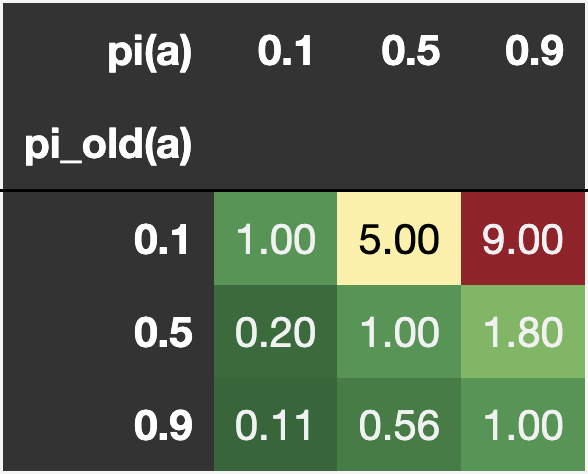
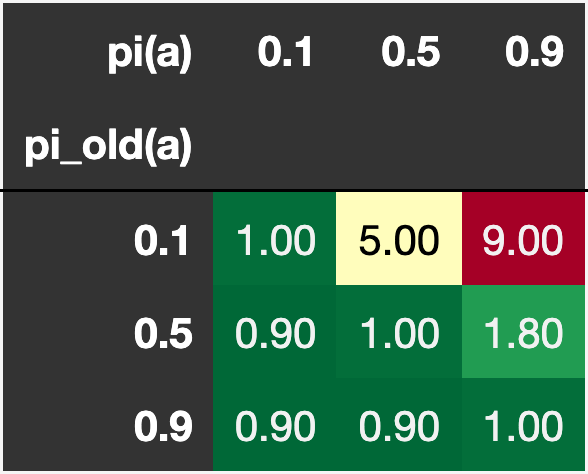
reproduce images with clipping

diff --git a/ppo.py b/ppo.py
@@ -15,8 +15,8 @@ def ppo_loss(pi_as, pi_as_old, A, epsilon=0.1):
     ratio = pi_as / pi_as_old
     term1 = ratio * A
     ratio_clipped = np.clip(ratio, 1 - epsilon, 1 + epsilon)
-    # term2 = ratio_clipped * A
-    term2 = term1
+    term2 = ratio_clipped * A
+    # term2 = term1
     loss = -np.min([term1, term2])
     return loss
 
@@ -43,14 +43,14 @@ def get_l_df(A):
 A = 1
 print(f"Loss with A={A}")
 df = apply_style(get_l_df(A))
-display(df)
-# dfi.export(df, f"fig/ppo_loss_A_{A}.png", dpi=300)
-
+# display(df)
+dfi.export(df, f"fig/ppo_loss_A_{A}.png", dpi=300)
+#%%
 A = -1
 print(f"Loss with A={A}")
 df = apply_style(get_l_df(A))
-display(df)
-# dfi.export(df, f"fig/ppo_loss_A_{A}.png", dpi=300)
+# display(df)
+dfi.export(df, f"fig/ppo_loss_A_{A}.png", dpi=300)
 # %% Deltas
 
 
@@ -77,12 +77,12 @@ delta = 0.01
 A = 10
 print(f"Loss Change with A={A}, delta={delta}")
 df = apply_style(get_loss_change_df(A, delta), 2)
-display(df)
-# dfi.export(df, f"fig/ppo_loss_change_A_{A}_delta_{delta}.png", dpi=300)
+# display(df)
+dfi.export(df, f"fig/ppo_loss_change_A_{A}_delta_{delta}.png", dpi=300)
 
 A = -10
 print(f"Loss Change with A={A}, delta={delta}")
 df = apply_style(get_loss_change_df(A, delta), 2)
-display(df)
-# dfi.export(df, f"fig/ppo_loss_change_A_{A}_delta_{delta}.png", dpi=300)
+# display(df)
+dfi.export(df, f"fig/ppo_loss_change_A_{A}_delta_{delta}.png", dpi=300)
 # %%
